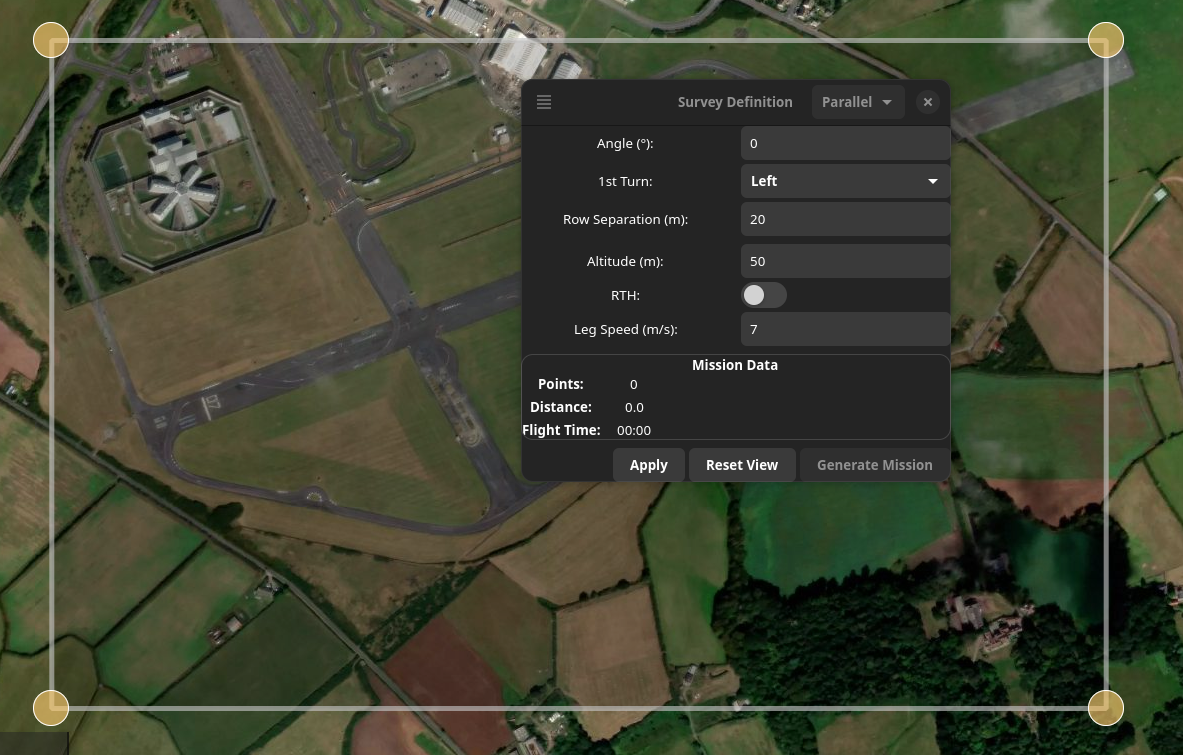
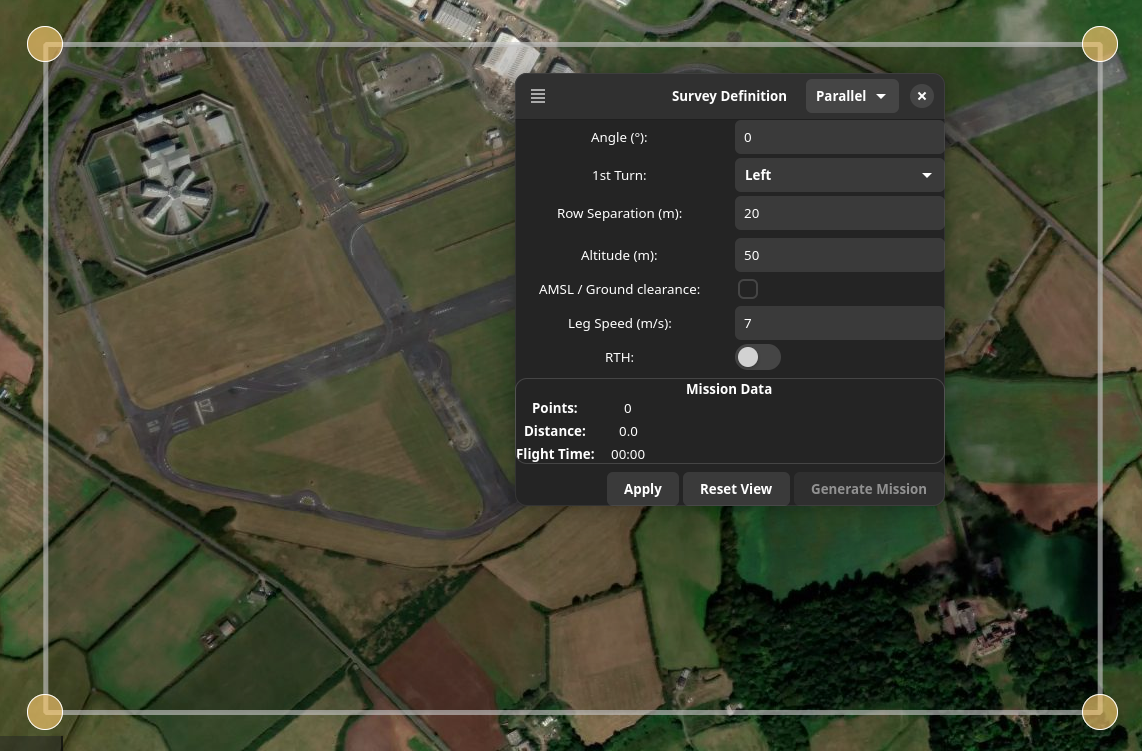
document absolute survey altitude

diff --git a/docs/manual/docs/mwp-area-planner.md b/docs/manual/docs/mwp-area-planner.md
@@ -14,6 +14,19 @@ The drop-down in the top right offers options of:
 * Square: Expanding Square.
 * Spiral: Spiral pattern.
 
+### Mission Parameters
+
+The dialog provides options for mission creation that are common to each survey pattern:
+
+* **Altitude:** in metres (mission parameter), relative or absolute, dependent on:
+* **AMSL / Ground Clearance:** This controls how the altitude value is used:
+    * If not set, the same altitude value is set for each way-point and is relative to the arming location.
+	* If set, the altitude value is added to the AMSL (Absolute/Above Mean Sea Level) elevation for each way point, and the way-point altitude is set as absolute.
+* **RTH** (mission parameter). Whether to set RTH on the final generated WP.
+* **Leg Speed** (mission parameter).
+
+### Control Buttons
+
 The tool is controlled by the three buttons at the bottom of the window.
 
 * **Apply:** The settings are applied and the pattern is drawn. The button will be disabled if the size of the survey outline and the row separation values would result in an impractically large number of turning points. In order to resolve this it will be necessary to either reduce the size of the survey area or increase the row separation.
@@ -37,11 +50,8 @@ Any plotted outline mission will be recalculated as points are manipulated.
 * **Angle:** Defines the direction of the first mission leg.
 * **1st Turn:** Left or Right
 * **Row Separation:** Distance between the rows in metres
-* **Altitude:** in metres (mission parameter)
-* **RTH** (mission parameter). Whether to set RTH on the final generated WP.
-* **Leg Speed** (mission parameter).
 
-Once an initial solution has been plotted, changing any of the first three parameters will result in the solution being recalculated. The latter three options are common to all patterns.
+Once an initial solution has been plotted, changing any of the first three parameters will result in the solution being recalculated.
 
 After a solution has been calculated, the "Mission Data" summary is updated.
 
@@ -55,14 +65,6 @@ Note also how the angle and turn parameters affect the staring point.
 
 Example of generated mission with KML backdrop showing original survey area:
 ![area planner](images/survey-ovl-kml.png)
-
-### File Menu
-
-The area planner dialog has a drop down menu to load and save area definitions to / from the file system. The files are the same format as for the legacy `mwp-area-planner`.
-
-![area planner](images/area-plan-menu.png)
-
-In addition (not shown), it is also possible to save the survey outline as a KML file for future display / analysis.
 
 ### "Square" pattern generator
 
@@ -90,6 +92,13 @@ The generated mission from these settings looks like:
 
 ![area planner](images/survey-spiral-02.png)
 
+### File Menu
+
+The area planner dialog has a drop down menu to load and save area definitions to / from the file system. The files are the same format as for the legacy `mwp-area-planner`.
+
+![area planner](images/area-plan-menu.png)
+
+In addition (not shown), it is also possible to save the survey outline as a KML file for future display / analysis.
 
 ## Obsolete video
 
